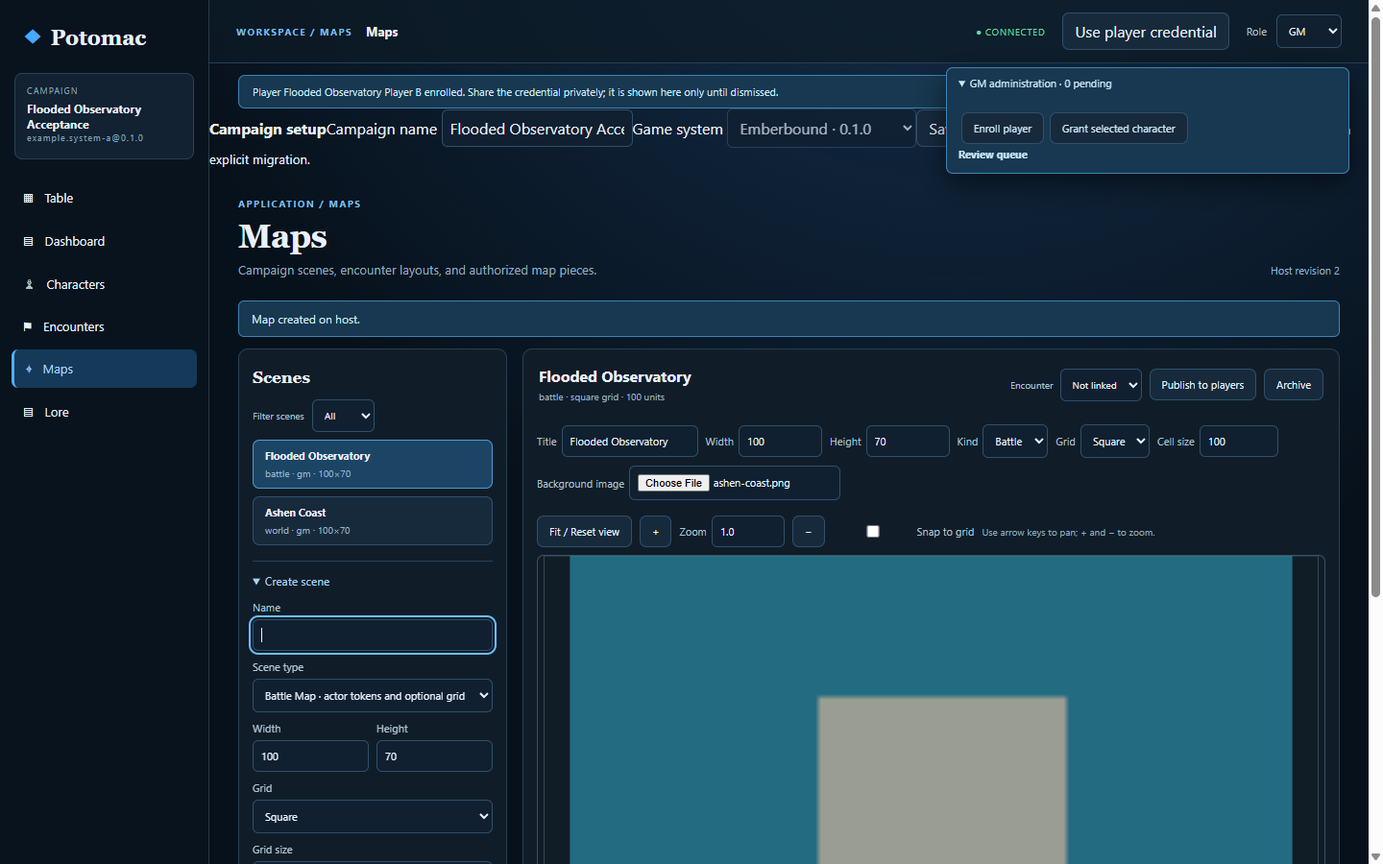
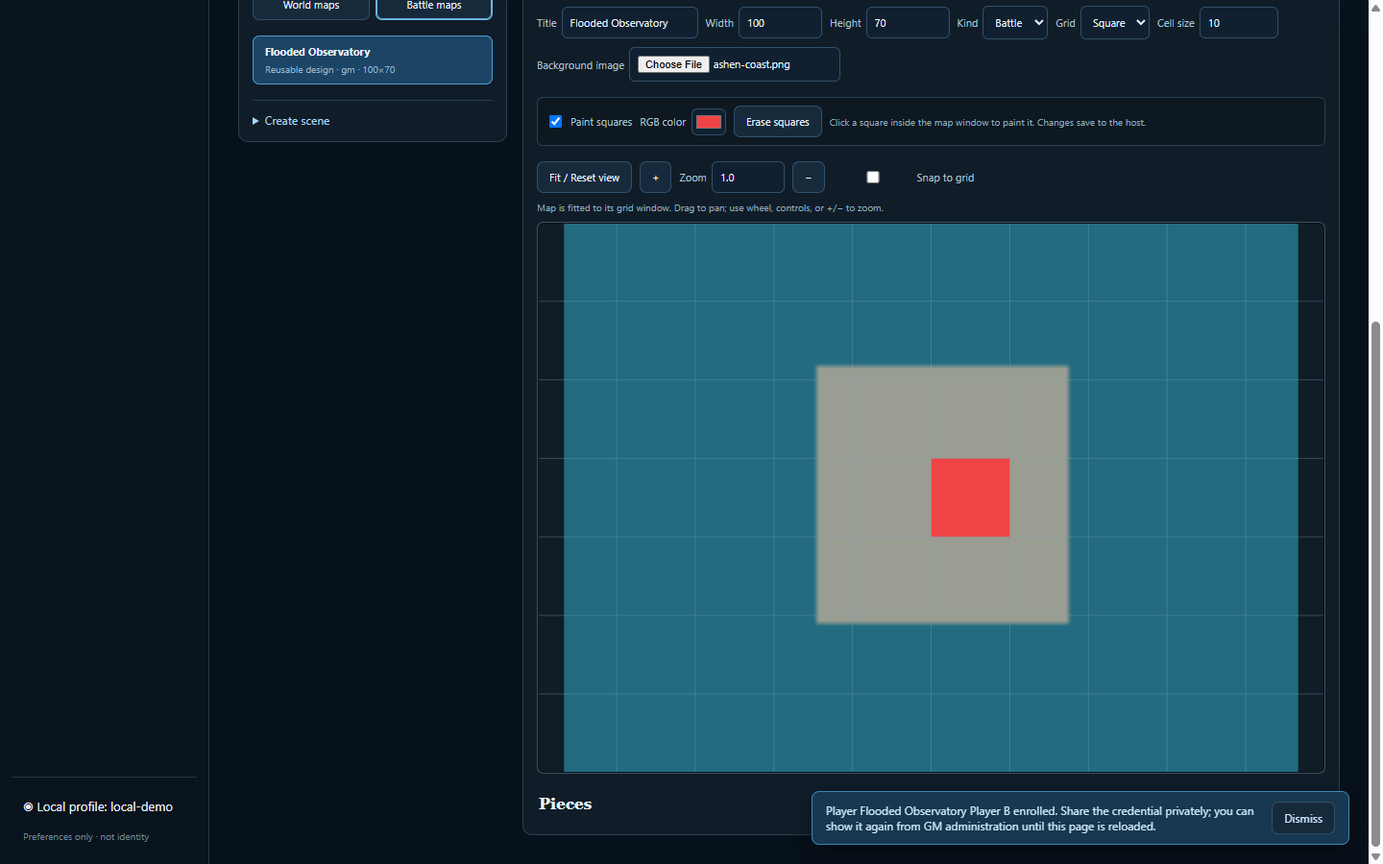
feat(maps): fit scenes and paint battle grid cells

diff --git a/clients/web/src/maps-app.tsx b/clients/web/src/maps-app.tsx
@@ -10,7 +10,7 @@ import './maps-responsive.css'
 type Props = { role: Role; connection: ConnectionStatus; campaignId: string; actors: Actor[]; encounters: Encounter[]; loreArticles?: LoreArticle[]; hostAvailable: boolean; initialSceneId?: string; cachedScenes?: MapSceneView[]; cachedBackgrounds?: Record<string, Blob>; cacheTimes?: Record<string, number>; onHandoff?: (app: 'encounters' | 'characters' | 'lore', id?: string, originSceneId?: string) => void; onSceneChange?: (scenes: MapSceneView[]) => void; onSelectedSceneChange?: (sceneId: string) => void }
 const newId = (prefix: string) => `${prefix}-${crypto.randomUUID()}`
 
-export function MapCanvas({ scene, actors, onSelect, onDropPiece, onKeyboardMovePiece, backgroundUrl, showPrivate = false, snapToGrid = false, onSnapToGridChange }: { scene: MapSceneView; actors: Actor[]; onSelect?: (piece: MapPieceView) => void; onDropPiece?: (piece: MapPieceView, point: { x: number; y: number }) => void; onKeyboardMovePiece?: (piece: MapPieceView, point: { x: number; y: number }) => void; backgroundUrl?: string; showPrivate?: boolean; snapToGrid?: boolean; onSnapToGridChange?: (enabled: boolean) => void }) {
+export function MapCanvas({ scene, actors, onSelect, onDropPiece, onKeyboardMovePiece, backgroundUrl, showPrivate = false, snapToGrid = false, onSnapToGridChange, paintEnabled = false, paintColor, onPaintCell }: { scene: MapSceneView; actors: Actor[]; onSelect?: (piece: MapPieceView) => void; onDropPiece?: (piece: MapPieceView, point: { x: number; y: number }) => void; onKeyboardMovePiece?: (piece: MapPieceView, point: { x: number; y: number }) => void; backgroundUrl?: string; showPrivate?: boolean; snapToGrid?: boolean; onSnapToGridChange?: (enabled: boolean) => void; paintEnabled?: boolean; paintColor?: string; onPaintCell?: (cell: { x: number; y: number }, color: string | null) => void }) {
   const actorNames = useMemo(() => new Map(actors.map(actor => [actor.entityId, actor.name])), [actors])
   const [dragging, setDragging] = useState<string>()
   const [dragPoint, setDragPoint] = useState<{ x: number; y: number }>()
@@ -20,19 +20,21 @@ export function MapCanvas({ scene, actors, onSelect, onDropPiece, onKeyboardMove
   const dragPointRef = useRef<{ x: number; y: number } | undefined>(undefined)
   const piecePointerStart = useRef<{ id: string; startX: number; startY: number } | undefined>(undefined)
   const points = useMemo(() => gridPoints(scene.width, scene.height, scene.grid), [scene.width, scene.height, scene.grid])
-  const position = (event: React.PointerEvent<SVGSVGElement>) => {
+  const scenePosition = (event: React.PointerEvent<SVGSVGElement>) => {
     const bounds = event.currentTarget.getBoundingClientRect()
-    const point = viewportToScene({ x: (event.clientX - bounds.left) / bounds.width * scene.width, y: (event.clientY - bounds.top) / bounds.height * scene.height }, pan, zoom)
-    return positionForMove(point, scene, snapToGrid)
+    return viewportToScene({ x: (event.clientX - bounds.left) / bounds.width * scene.width, y: (event.clientY - bounds.top) / bounds.height * scene.height }, pan, zoom)
   }
-  return <div className="map-canvas-wrap"><div className="map-viewport-controls" aria-label="Map viewport controls"><button type="button" onClick={() => { setZoom(1); setPan({ x: 0, y: 0 }) }}>Fit / Reset view</button><button type="button" aria-label="Zoom in" onClick={() => setZoom(value => Math.min(4, value + .1))}>+</button><label>Zoom<input aria-label="Zoom level" type="number" min="0.5" max="4" step="0.1" value={zoom.toFixed(1)} onChange={event => setZoom(Math.max(.5, Math.min(4, Number(event.target.value))))} /></label><button type="button" aria-label="Zoom out" onClick={() => setZoom(value => Math.max(.5, value - .1))}>−</button>{onDropPiece && scene.grid.type !== 'none' && <label><input type="checkbox" checked={snapToGrid} onChange={event => onSnapToGridChange?.(event.target.checked)} /> Snap to grid</label>}<small>Use arrow keys to pan; + and − to zoom.</small></div><svg className="map-canvas" viewBox={`0 0 ${scene.width} ${scene.height}`} role="img" aria-label={`${scene.name} map`} tabIndex={0} onKeyDown={event => { const amount = scene.grid.type === 'square' ? scene.grid.size : 5; if (event.key === '+' || event.key === '=') setZoom(value => Math.min(4, value * 1.2)); else if (event.key === '-') setZoom(value => Math.max(.5, value / 1.2)); else if (event.key === 'ArrowLeft') setPan(value => ({ ...value, x: value.x + amount })); else if (event.key === 'ArrowRight') setPan(value => ({ ...value, x: value.x - amount })); else if (event.key === 'ArrowUp') setPan(value => ({ ...value, y: value.y + amount })); else if (event.key === 'ArrowDown') setPan(value => ({ ...value, y: value.y - amount })) }} onWheel={event => { event.preventDefault(); setZoom(value => Math.max(.5, Math.min(4, value * (event.deltaY < 0 ? 1.1 : .9)))) }} onPointerDown={event => { if (event.target === event.currentTarget || (event.target as Element).classList.contains('map-background')) { event.currentTarget.setPointerCapture(event.pointerId); setPanStart({ x: event.clientX, y: event.clientY, originX: pan.x, originY: pan.y }) } }} onPointerMove={event => {
+  const position = (event: React.PointerEvent<SVGSVGElement>) => positionForMove(scenePosition(event), scene, snapToGrid)
+  return <div className="map-canvas-wrap"><div className="map-viewport-controls" aria-label="Map viewport controls"><button type="button" onClick={() => { setZoom(1); setPan({ x: 0, y: 0 }) }}>Fit / Reset view</button><button type="button" aria-label="Zoom in" onClick={() => setZoom(value => Math.min(4, value + .1))}>+</button><label>Zoom<input aria-label="Zoom level" type="number" min="0.5" max="4" step="0.1" value={zoom.toFixed(1)} onChange={event => setZoom(Math.max(.5, Math.min(4, Number(event.target.value))))} /></label><button type="button" aria-label="Zoom out" onClick={() => setZoom(value => Math.max(.5, value - .1))}>−</button>{onDropPiece && scene.grid.type !== 'none' && <label><input type="checkbox" checked={snapToGrid} onChange={event => onSnapToGridChange?.(event.target.checked)} /> Snap to grid</label>}<small>Map is fitted to its grid window. Drag to pan; use wheel, controls, or +/− to zoom.</small></div><div className="map-grid-window" style={{ width: `min(100%, ${(scene.width / scene.height) * 65}vh)`, aspectRatio: `${scene.width} / ${scene.height}` }}><svg className="map-canvas" viewBox={`0 0 ${scene.width} ${scene.height}`} preserveAspectRatio="none" role="img" aria-label={`${scene.name} map`} tabIndex={0} onKeyDown={event => { const amount = scene.grid.type === 'square' ? scene.grid.size : 5; if (event.key === '+' || event.key === '=') setZoom(value => Math.min(4, value * 1.2)); else if (event.key === '-') setZoom(value => Math.max(.5, value / 1.2)); else if (event.key === 'ArrowLeft') setPan(value => ({ ...value, x: value.x + amount })); else if (event.key === 'ArrowRight') setPan(value => ({ ...value, x: value.x - amount })); else if (event.key === 'ArrowUp') setPan(value => ({ ...value, y: value.y + amount })); else if (event.key === 'ArrowDown') setPan(value => ({ ...value, y: value.y - amount })) }} onWheel={event => { event.preventDefault(); setZoom(value => Math.max(.5, Math.min(4, value * (event.deltaY < 0 ? 1.1 : .9)))) }} onPointerDown={event => { if (!(event.target as Element).closest('.map-piece')) { event.currentTarget.setPointerCapture(event.pointerId); setPanStart({ x: event.clientX, y: event.clientY, originX: pan.x, originY: pan.y }) } }} onPointerMove={event => {
     if (!dragging || !onDropPiece) return
     const start = piecePointerStart.current
     if (start && Math.hypot(event.clientX - start.startX, event.clientY - start.startY) < 4) return
     const next = position(event)
     dragPointRef.current = next
     setDragPoint(next)
-  }} onPointerMoveCapture={event => { if (panStart) { const bounds = event.currentTarget.getBoundingClientRect(); setPan({ x: panStart.originX + (event.clientX - panStart.x) / bounds.width * scene.width / zoom, y: panStart.originY + (event.clientY - panStart.y) / bounds.height * scene.height / zoom }) } }} onPointerUp={event => { setPanStart(undefined)
+  }} onPointerMoveCapture={event => { if (panStart && Math.hypot(event.clientX - panStart.x, event.clientY - panStart.y) >= 4) { const bounds = event.currentTarget.getBoundingClientRect(); setPan({ x: panStart.originX + (event.clientX - panStart.x) / bounds.width * scene.width / zoom, y: panStart.originY + (event.clientY - panStart.y) / bounds.height * scene.height / zoom }) } }} onPointerUp={event => { const pointerDistance = panStart ? Math.hypot(event.clientX - panStart.x, event.clientY - panStart.y) : Infinity
+    if (pointerDistance < 4 && paintEnabled && onPaintCell && scene.grid.type === 'square') { const point = scenePosition(event); if (point.x >= 0 && point.y >= 0 && point.x < scene.width && point.y < scene.height) onPaintCell({ x: Math.floor(point.x / scene.grid.size), y: Math.floor(point.y / scene.grid.size) }, paintColor ?? null) }
+    setPanStart(undefined)
     const piece = scene.pieces.find(item => item.id === dragging)
     const finalPoint = piece ? position(event) : dragPointRef.current
     const start = piecePointerStart.current
@@ -43,13 +45,14 @@ export function MapCanvas({ scene, actors, onSelect, onDropPiece, onKeyboardMove
   }} onPointerCancel={() => { piecePointerStart.current = undefined; dragPointRef.current = undefined; setDragging(undefined); setDragPoint(undefined); setPanStart(undefined) }}>
     <g transform={`translate(${pan.x} ${pan.y}) scale(${zoom})`}><rect width={scene.width} height={scene.height} fill="#101d27" />
     {backgroundUrl && <image className="map-background" href={backgroundUrl} x="0" y="0" width={scene.width} height={scene.height} preserveAspectRatio="xMidYMid meet" />}
+    {scene.grid.type === 'square' && scene.grid.fills?.map(fill => <rect key={`${fill.x},${fill.y}`} className="map-cell-fill" x={fill.x * scene.grid.size} y={fill.y * scene.grid.size} width={scene.grid.size} height={scene.grid.size} fill={fill.color} />)}
     {scene.grid.type === 'square' && <g className="map-square-grid">{Array.from({ length: Math.ceil(scene.width / scene.grid.size) + 1 }, (_, index) => <line key={`x${index}`} x1={index * scene.grid.size} y1={0} x2={index * scene.grid.size} y2={scene.height} />)}{Array.from({ length: Math.ceil(scene.height / scene.grid.size) + 1 }, (_, index) => <line key={`y${index}`} x1={0} y1={index * scene.grid.size} x2={scene.width} y2={index * scene.grid.size} />)}</g>}
     {scene.grid.type === 'hex' && <g className="map-hex-grid">{points.map((point, index) => <polygon key={index} points={Array.from({ length: 6 }, (_, side) => `${point.x + scene.grid.size / Math.sqrt(3) * Math.cos(Math.PI / 3 * side)},${point.y + scene.grid.size / Math.sqrt(3) * Math.sin(Math.PI / 3 * side)}`).join(' ')} />)}</g>}
     {scene.pieces.filter(piece => piece.visible || showPrivate).map(piece => <g key={piece.id} className={`map-piece map-piece-${piece.kind}`} transform={`translate(${dragging === piece.id && dragPoint ? dragPoint.x : piece.x} ${dragging === piece.id && dragPoint ? dragPoint.y : piece.y})`} tabIndex={0} role="button" aria-label={`${pieceDisplayLabel(piece, actorNames)}, ${piece.kind}, coordinates ${piece.x}, ${piece.y}${onDropPiece ? ', draggable; numeric coordinate controls are available' : ', read only'}`} aria-keyshortcuts="Enter Space ArrowLeft ArrowRight ArrowUp ArrowDown" onClick={() => onSelect?.(piece)} onKeyDown={event => { if (event.key === 'Enter' || event.key === ' ') { event.preventDefault(); event.stopPropagation(); onSelect?.(piece) } else if (onKeyboardMovePiece && ['ArrowLeft', 'ArrowRight', 'ArrowUp', 'ArrowDown'].includes(event.key)) { event.preventDefault(); event.stopPropagation(); const amount = event.shiftKey ? 1 : scene.grid.type === 'square' ? scene.grid.size : 1; const point = positionForMove({ x: piece.x + (event.key === 'ArrowLeft' ? -amount : event.key === 'ArrowRight' ? amount : 0), y: piece.y + (event.key === 'ArrowUp' ? -amount : event.key === 'ArrowDown' ? amount : 0) }, scene, snapToGrid); onKeyboardMovePiece(piece, point) } }} onPointerDown={event => { onSelect?.(piece); if (!onDropPiece) return; event.stopPropagation(); event.currentTarget.setPointerCapture(event.pointerId); piecePointerStart.current = { id: piece.id, startX: event.clientX, startY: event.clientY }; setDragging(piece.id); dragPointRef.current = { x: piece.x, y: piece.y }; setDragPoint({ x: piece.x, y: piece.y }) }}>
       <circle r={Math.max(1.5, scene.grid.size * .38)} />
       <text y={Math.max(1, scene.grid.size * .58)} textAnchor="middle">{pieceDisplayLabel(piece, actorNames)}</text>
     </g>)}</g>
-  </svg></div>
+  </svg></div></div>
 }
 
 export function MapsApp({ role, connection, campaignId, actors, encounters, loreArticles = [], hostAvailable, initialSceneId, cachedScenes = [], cachedBackgrounds = {}, cacheTimes = {}, onHandoff, onSceneChange, onSelectedSceneChange }: Props) {
@@ -71,11 +74,14 @@ export function MapsApp({ role, connection, campaignId, actors, encounters, lore
   const [gridSize, setGridSize] = useState(5)
   const [backgroundFile, setBackgroundFile] = useState<File>()
   const [snapToGrid, setSnapToGrid] = useState(false)
+  const [paintMode, setPaintMode] = useState<'off' | 'paint' | 'erase'>('off')
+  const [paintColor, setPaintColor] = useState('#3b82f6')
   const [mapFilter, setMapFilter] = useState<'world' | 'battle'>('world')
   const [backgroundUrl, setBackgroundUrl] = useState('')
   const [navigation, setNavigation] = useState<string[]>([])
 
   useEffect(() => { if (initialSceneId) { setSelectedId(initialSceneId); onSelectedSceneChange?.(initialSceneId); const target = scenes.find(scene => scene.id === initialSceneId); if (target) { setMapFilter(target.kind); setKind(target.kind) } } }, [initialSceneId, onSelectedSceneChange])
+  useEffect(() => { setPaintMode('off') }, [selectedId])
   useEffect(() => {
     setScenes(cachedScenes)
     if (selectedId && !cachedScenes.some(scene => scene.id === selectedId)) { const firstId = cachedScenes[0]?.id || ''; setSelectedId(firstId); onSelectedSceneChange?.(firstId) }
@@ -114,6 +120,31 @@ export function MapsApp({ role, connection, campaignId, actors, encounters, lore
     try { await commandMap(role, scene.id, command); await refresh(scene.id); setNotice('Saved on host.') }
     catch (cause) { setError(cause instanceof Error ? cause.message : 'Map change failed') }
     finally { setBusy(false) }
+  }
+  async function paintCell(cell: { x: number; y: number }, color: string | null) {
+    if (!selected || busy || role !== 'gm' || connection !== 'connected' || selected.kind !== 'battle' || selected.grid.type !== 'square') return
+    const fills = [...(selected.grid.fills || [])]
+    const existing = fills.findIndex(fill => fill.x === cell.x && fill.y === cell.y)
+    if (color === null) {
+      if (existing < 0) return
+      fills.splice(existing, 1)
+    } else {
+      if (existing >= 0 && fills[existing].color.toLowerCase() === color.toLowerCase()) return
+      if (existing >= 0) fills.splice(existing, 1)
+      fills.push({ ...cell, color: color.toUpperCase() })
+    }
+    await send(selected, { operationId: newId('op'), baseRevision: selected.revision, command: 'update', grid: { ...selected.grid, fills } })
+  }
+  function changeGridType(type: 'none' | 'square') {
+    if (!selected) return
+    if (selected.grid.fills?.length && type !== 'square' && !window.confirm('Turning off the square grid will clear its painted cell colors. Continue?')) return
+    void send(selected, { operationId: newId('op'), baseRevision: selected.revision, command: 'update', grid: { type, size: type === 'none' ? 0 : selected.grid.size || 100 } })
+  }
+  function changeSceneKind(kind: 'world' | 'battle') {
+    if (!selected) return
+    const hasFills = Boolean(selected.grid.fills?.length)
+    if (hasFills && kind === 'world' && !window.confirm('Changing this scene to a World Map clears its battle-map square colors. Continue?')) return
+    void send(selected, { operationId: newId('op'), baseRevision: selected.revision, command: 'update', kind, ...(hasFills && kind === 'world' ? { grid: { ...selected.grid, fills: [] } } : {}) })
   }
   async function addScene(event: React.FormEvent) {
     event.preventDefault(); setBusy(true); setError('')
@@ -186,10 +217,11 @@ export function MapsApp({ role, connection, campaignId, actors, encounters, lore
     <div className="maps-layout"><aside className="map-browser"><h2>{mapFilter === 'world' ? 'World maps' : 'Battle map designs'}</h2><div className="map-kind-tabs" role="group" aria-label="Map collection"><button type="button" aria-pressed={mapFilter === 'world'} onClick={() => selectMapKind('world')}>World maps</button><button type="button" aria-pressed={mapFilter === 'battle'} onClick={() => selectMapKind('battle')}>Battle maps</button></div>{scenes.filter(scene => scene.kind === mapFilter).length ? scenes.filter(scene => scene.kind === mapFilter).map(scene => <button key={scene.id} className={selectedId === scene.id ? 'active' : ''} onClick={() => { setSelectedId(scene.id); onSelectedSceneChange?.(scene.id); setSelectedPiece(undefined) }}><strong>{scene.name}</strong><small>{scene.kind === 'world' ? 'World map' : scene.encounterId ? 'Encounter copy' : 'Reusable design'} · {scene.visibility} · {scene.width}×{scene.height}</small></button>) : <p>{connection === 'connected' ? `No ${mapFilter === 'world' ? 'world maps' : 'battle map designs'} yet.` : 'No cached maps.'}</p>}
       {role === 'gm' && <details><summary>Create scene</summary><form className="map-create-form" onSubmit={event => void addScene(event)}><label>Name<input required maxLength={160} value={name} onChange={event => setName(event.target.value)} /></label><label>Map type<select value={kind} onChange={event => { const next = event.target.value as typeof kind; setKind(next); setGridType(next === 'world' ? 'none' : 'square'); if (next === 'battle') setGridSize(100) }}><option value="world">World map · locations and Lore</option><option value="battle">Battle map design · grid and tokens</option></select></label><div className="map-field-row"><label>Width<input type="number" min="1" max="100000" value={width} onChange={event => setWidth(Number(event.target.value))} /></label><label>Height<input type="number" min="1" max="100000" value={height} onChange={event => setHeight(Number(event.target.value))} /></label></div><label>Grid<select value={gridType} onChange={event => setGridType(event.target.value as typeof gridType)}><option value="none">None</option><option value="square">Square</option></select></label>{gridType !== 'none' && <label>Grid size<input type="number" min="1" max="10000" value={gridSize} onChange={event => setGridSize(Number(event.target.value))} /></label>}<label>Background image (optional)<input type="file" accept="image/png,image/jpeg,image/gif,image/webp" onChange={event => setBackgroundFile(event.currentTarget.files?.[0])} /></label><button className="primary" disabled={busy || connection !== 'connected'}>Create on host</button></form></details>}</aside>
       <section className="map-workspace">{selected ? <><header className="map-toolbar"><div><strong>{selected.name}</strong><small>{selected.kind === 'world' ? 'World map · locations and Lore' : selected.encounterId ? 'Independent encounter map copy' : 'Reusable battle map design'} · {selected.grid.type === 'none' ? 'No grid' : `${selected.grid.type} grid · ${selected.grid.size} units`}</small></div><div>{navigation.length > 0 && <button onClick={() => { const previousId = navigation.at(-1)!; setSelectedId(previousId); onSelectedSceneChange?.(previousId); setNavigation(items => items.slice(0, -1)) }}>Back to previous map</button>}{selected.kind === 'world' && <label>Related encounter<select aria-label="Related encounter" value={selected.encounterId || ''} disabled={role !== 'gm' || connection !== 'connected' || busy} onChange={event => void send(selected, { operationId: newId('op'), baseRevision: selected.revision, command: 'encounter.set', encounterId: event.target.value || null })}><option value="">None</option>{encounters.map(item => <option key={item.id} value={item.id}>{item.name}</option>)}</select></label>}{selected.encounterId && <span>Imported into {encounters.find(item => item.id === selected.encounterId)?.name || 'an encounter'}</span>}{role === 'gm' && <><button disabled={busy || connection !== 'connected'} onClick={() => void send(selected, { operationId: newId('op'), baseRevision: selected.revision, command: selected.visibility === 'shared' ? 'revoke' : 'publish' })}>{selected.visibility === 'shared' ? 'Revoke from players' : 'Publish to players'}</button><button disabled={busy || connection !== 'connected'} onClick={() => void send(selected, { operationId: newId('op'), baseRevision: selected.revision, command: 'archive' })}>Archive</button></>}</div></header>
-        <div className="map-controls" aria-label="Map scene controls">{role === 'gm' && connection === 'connected' && <><label>Title<input aria-label="Map title" key={`title-${selected.id}-${selected.revision}`} defaultValue={selected.name} maxLength={160} onBlur={event => { const value = event.target.value.trim(); if (value && value !== selected.name) void send(selected, { operationId: newId('op'), baseRevision: selected.revision, command: 'update', name: value }) }} /></label><label>Width<input aria-label="Map width" type="number" min="1" max="100000" key={`width-${selected.id}-${selected.revision}`} defaultValue={selected.width} onBlur={event => { const value = Number(event.target.value); if (Number.isInteger(value) && value > 0 && value <= 100000 && value !== selected.width) void send(selected, { operationId: newId('op'), baseRevision: selected.revision, command: 'update', width: value }) }} /></label><label>Height<input aria-label="Map height" type="number" min="1" max="100000" key={`height-${selected.id}-${selected.revision}`} defaultValue={selected.height} onBlur={event => { const value = Number(event.target.value); if (Number.isInteger(value) && value > 0 && value <= 100000 && value !== selected.height) void send(selected, { operationId: newId('op'), baseRevision: selected.revision, command: 'update', height: value }) }} /></label><label>Kind<select aria-label="Scene kind" value={selected.kind} disabled={busy} onChange={event => void send(selected, { operationId: newId('op'), baseRevision: selected.revision, command: 'update', kind: event.target.value as 'world' | 'battle' })}><option value="world">World</option><option value="battle">Battle</option></select></label><label>Grid<select aria-label="Grid" value={selected.grid.type} disabled={busy} onChange={event => void send(selected, { operationId: newId('op'), baseRevision: selected.revision, command: 'update', grid: { type: event.target.value as 'none' | 'square', size: event.target.value === 'none' ? 0 : selected.grid.size || 100 } })}><option value="none">Off</option><option value="square">Square</option></select></label>{selected.grid.type !== 'none' && <label>Cell size<input aria-label="Grid cell size" type="number" min="1" max="10000" key={`grid-${selected.id}-${selected.revision}`} defaultValue={selected.grid.size} onBlur={event => { const value = Number(event.target.value); if (Number.isFinite(value) && value >= 1 && value <= 10000 && value !== selected.grid.size) void send(selected, { operationId: newId('op'), baseRevision: selected.revision, command: 'update', grid: { ...selected.grid, size: value } }) }} /></label>}<label>Background image<input type="file" accept="image/png,image/jpeg,image/gif,image/webp" disabled={busy} onChange={event => void addBackground(event.currentTarget.files?.[0])} /></label></>}</div>
+        <div className="map-controls" aria-label="Map scene controls">{role === 'gm' && connection === 'connected' && <><label>Title<input aria-label="Map title" key={`title-${selected.id}-${selected.revision}`} defaultValue={selected.name} maxLength={160} onBlur={event => { const value = event.target.value.trim(); if (value && value !== selected.name) void send(selected, { operationId: newId('op'), baseRevision: selected.revision, command: 'update', name: value }) }} /></label><label>Width<input aria-label="Map width" type="number" min="1" max="100000" key={`width-${selected.id}-${selected.revision}`} defaultValue={selected.width} onBlur={event => { const value = Number(event.target.value); if (Number.isInteger(value) && value > 0 && value <= 100000 && value !== selected.width) void send(selected, { operationId: newId('op'), baseRevision: selected.revision, command: 'update', width: value }) }} /></label><label>Height<input aria-label="Map height" type="number" min="1" max="100000" key={`height-${selected.id}-${selected.revision}`} defaultValue={selected.height} onBlur={event => { const value = Number(event.target.value); if (Number.isInteger(value) && value > 0 && value <= 100000 && value !== selected.height) void send(selected, { operationId: newId('op'), baseRevision: selected.revision, command: 'update', height: value }) }} /></label><label>Kind<select aria-label="Scene kind" value={selected.kind} disabled={busy} onChange={event => changeSceneKind(event.target.value as 'world' | 'battle')}><option value="world">World</option><option value="battle">Battle</option></select></label><label>Grid<select aria-label="Grid" value={selected.grid.type} disabled={busy} onChange={event => changeGridType(event.target.value as 'none' | 'square')}><option value="none">Off</option><option value="square">Square</option></select></label>{selected.grid.type !== 'none' && <label>Cell size<input aria-label="Grid cell size" type="number" min="1" max="10000" key={`grid-${selected.id}-${selected.revision}`} defaultValue={selected.grid.size} onBlur={event => { const value = Number(event.target.value); if (Number.isFinite(value) && value >= 1 && value <= 10000 && value !== selected.grid.size) void send(selected, { operationId: newId('op'), baseRevision: selected.revision, command: 'update', grid: { ...selected.grid, size: value } }) }} /></label>}<label>Background image<input type="file" accept="image/png,image/jpeg,image/gif,image/webp" disabled={busy} onChange={event => void addBackground(event.currentTarget.files?.[0])} /></label></>}</div>
+        {selected.kind === 'battle' && selected.grid.type === 'square' && role === 'gm' && connection === 'connected' && <div className="map-paint-controls" aria-label="Battle map square coloring"><label><input type="checkbox" checked={paintMode !== 'off'} onChange={event => setPaintMode(event.target.checked ? 'paint' : 'off')} /> Paint squares</label>{paintMode !== 'off' && <><label>RGB color<input aria-label="Square RGB color" type="color" value={paintColor} onChange={event => setPaintColor(event.target.value)} /></label><button type="button" aria-pressed={paintMode === 'erase'} onClick={() => setPaintMode(paintMode === 'erase' ? 'paint' : 'erase')}>{paintMode === 'erase' ? 'Eraser selected' : 'Erase squares'}</button><small>Click a square inside the map window to paint it. Changes save to the host.</small></>}</div>}
         {selected.encounterId && <button type="button" onClick={() => onHandoff?.('encounters', selected.encounterId!)}>Open associated encounter</button>}
         {selected.background && !backgroundUrl && <p role="status">{connection === 'connected' ? 'Loading authorized background…' : 'Background unavailable offline unless previously cached.'}</p>}
-        <MapCanvas key={selected.id} scene={selected} actors={actors} backgroundUrl={backgroundUrl} showPrivate={role === 'gm'} snapToGrid={snapToGrid} onSnapToGridChange={setSnapToGrid} onSelect={setSelectedPiece} onDropPiece={role === 'gm' && connection === 'connected' ? (piece, point) => void savePiece(piece, point) : undefined} onKeyboardMovePiece={role === 'gm' && connection === 'connected' ? (piece, point) => queueKeyboardMove(piece, point) : undefined} />
+        <MapCanvas key={selected.id} scene={selected} actors={actors} backgroundUrl={backgroundUrl} showPrivate={role === 'gm'} snapToGrid={snapToGrid} onSnapToGridChange={setSnapToGrid} paintEnabled={paintMode !== 'off'} paintColor={paintMode === 'erase' ? undefined : paintColor} onPaintCell={(cell, color) => void paintCell(cell, color)} onSelect={setSelectedPiece} onDropPiece={role === 'gm' && connection === 'connected' ? (piece, point) => void savePiece(piece, point) : undefined} onKeyboardMovePiece={role === 'gm' && connection === 'connected' ? (piece, point) => queueKeyboardMove(piece, point) : undefined} />
         <div className="map-piece-list"><div><h2>Pieces</h2>{role === 'gm' && connection === 'connected' && <details><summary>{selected.kind === 'world' ? 'Add location pin or actor token' : 'Add actor token or location pin'}</summary><form className="map-add-piece" onSubmit={event => { event.preventDefault(); if (!selected) return; const form = new FormData(event.currentTarget); const actorId = String(form.get('actorId') || ''); const label = String(form.get('label') || '').trim(); const piece: MapPiece = { id: newId('piece'), sceneId: selected.id, kind: actorId ? 'actor' : 'pin', x: selected.width / 2, y: selected.height / 2, visible: false, revision: 1, ...(actorId ? { actorId } : { label: label || 'Pin' }) }; void send(selected, { operationId: newId('op'), baseRevision: selected.revision, command: 'piece.put', piece: { ...piece } }); event.currentTarget.reset() }}><label>Actor<select name="actorId" defaultValue=""><option value="">Place a pin instead</option>{actors.map(actor => <option key={actor.entityId} value={actor.entityId}>{actor.name}</option>)}</select></label><label>Pin label<input name="label" maxLength={200} /></label><button>Add at center · GM only</button></form></details>}</div>
           {selected.pieces.map(piece => <div className={`map-piece-row ${selectedPiece?.id === piece.id ? 'active' : ''}`} key={piece.id}><button onClick={() => setSelectedPiece(piece)}><strong>{pieceDisplayLabel(piece, new Map(actors.map(actor => [actor.entityId, actor.name])))}</strong><small>{piece.kind} · {piece.x.toFixed(1)}, {piece.y.toFixed(1)}{piece.visible ? ' · shared' : ' · GM only'}</small></button>{piece.kind === 'actor' && piece.actorId && <button onClick={() => onHandoff?.('characters', piece.actorId)}>Open character</button>}{piece.destination && <button onClick={() => followDestination(piece.destination!)}>{piece.destination.kind === 'map_scene' ? `Go to ${piece.destination.name}` : `Open ${piece.destination.title}`}</button>}{role === 'gm' && connection === 'connected' && <><label>Label<input aria-label={`Label for ${pieceDisplayLabel(piece, new Map(actors.map(actor => [actor.entityId, actor.name])))}`} maxLength={200} defaultValue={piece.label || ''} onBlur={event => { if (piece.kind === 'pin' && event.target.value !== (piece.label || '')) void updatePiece(piece, { label: event.target.value }) }} /></label><label>X<input aria-label={`X coordinate for ${piece.id}`} type="number" min="0" max={selected.width} step="any" defaultValue={piece.x} onBlur={event => { const value = Number(event.target.value); if (Number.isFinite(value) && value >= 0 && value <= selected.width && value !== piece.x) void updatePiece(piece, { x: value }) }} /></label><label>Y<input aria-label={`Y coordinate for ${piece.id}`} type="number" min="0" max={selected.height} step="any" defaultValue={piece.y} onBlur={event => { const value = Number(event.target.value); if (Number.isFinite(value) && value >= 0 && value <= selected.height && value !== piece.y) void updatePiece(piece, { y: value }) }} /></label><label><input type="checkbox" checked={piece.visible} disabled={busy} onChange={event => void updatePiece(piece, { visible: event.target.checked })} /> Shared</label><button disabled={busy} onClick={() => void send(selected, { operationId: newId('op'), baseRevision: selected.revision, command: 'piece.delete', pieceId: piece.id })}>Remove</button></>}</div>)}</div>
         <div className="map-links"><h2>Pin destinations</h2>{selected.pieces.filter(piece => piece.kind === 'pin').map(piece => <div className="map-pin-destination" key={piece.id}><form onSubmit={event => { event.preventDefault(); const data = new FormData(event.currentTarget); void send(selected, { operationId: newId('op'), baseRevision: selected.revision, command: 'link.put', pieceId: piece.id, targetSceneId: String(data.get('targetSceneId')), label: String(data.get('label') || '') }) }}><span>{piece.label || 'Pin'} · Map</span><select aria-label={`Destination for ${piece.label || piece.id}`} name="targetSceneId" defaultValue={piece.destination?.kind === 'map_scene' ? piece.destination.sceneId : ''} disabled={role !== 'gm' || connection !== 'connected'}><option value="" disabled>Select destination</option>{scenes.filter(scene => scene.id !== selected.id).map(scene => <option key={scene.id} value={scene.id}>{scene.name}</option>)}</select><input aria-label="Link label" name="label" placeholder="Handoff label" defaultValue={piece.destination?.label || ''} disabled={role !== 'gm' || connection !== 'connected'} />{role === 'gm' && <><button disabled={busy || connection !== 'connected'}>Save link</button>{piece.destination?.kind === 'map_scene' && <button type="button" disabled={busy || connection !== 'connected'} onClick={() => void send(selected, { operationId: newId('op'), baseRevision: selected.revision, command: 'link.delete', pieceId: piece.id })}>Unlink</button>}</>}</form><form className="map-lore-link" onSubmit={event => { event.preventDefault(); const data = new FormData(event.currentTarget); void send(selected, { operationId: newId('op'), baseRevision: selected.revision, command: 'lore-link.put', pieceId: piece.id, targetLoreEntryId: String(data.get('targetLoreEntryId')), label: String(data.get('label') || '') }) }}><label>Lore destination<select aria-label={`Lore destination for ${piece.label || piece.id}`} name="targetLoreEntryId" defaultValue={piece.destination?.kind === 'lore_entry' ? piece.destination.entryId : ''} disabled={role !== 'gm' || connection !== 'connected'}><option value="">No Lore destination</option>{loreArticles.filter(article => !article.archived).map(article => <option key={article.id} value={article.id}>{article.title}{article.visibility === 'gm' ? ' · GM only' : ''}</option>)}</select></label><label>Lore link label<input aria-label={`Lore link label for ${piece.label || piece.id}`} name="label" placeholder="Optional label" defaultValue={piece.destination?.kind === 'lore_entry' ? piece.destination.label : ''} disabled={role !== 'gm' || connection !== 'connected'} /></label>{role === 'gm' && <><button disabled={busy || connection !== 'connected'}>Save Lore link</button>{piece.destination?.kind === 'lore_entry' && <button type="button" disabled={busy || connection !== 'connected'} onClick={() => void send(selected, { operationId: newId('op'), baseRevision: selected.revision, command: 'lore-link.delete', pieceId: piece.id })}>Remove Lore link</button>}</>}</form></div>)}</div>

diff --git a/clients/web/src/maps-responsive.css b/clients/web/src/maps-responsive.css
@@ -10,3 +10,4 @@
   .map-piece-row{align-items:flex-start}
   .map-viewport-controls small{flex-basis:100%}
 }
+.map-grid-window{position:relative;margin-inline:auto;max-width:100%;max-height:65vh;overflow:hidden;background:#101d27;border:1px solid #385267;border-radius:7px}.map-canvas{display:block;width:100%;height:100%;max-height:none;aspect-ratio:auto;border:0;touch-action:none}.map-cell-fill{pointer-events:none}.map-paint-controls{display:flex;align-items:center;gap:8px;flex-wrap:wrap;margin:8px 0;padding:8px;border:1px solid #294052;border-radius:6px;background:#0d1821}.map-paint-controls label{display:flex;align-items:center;gap:6px;color:#adc1d1;font-size:11px}.map-paint-controls input[type=color]{width:36px;height:28px;padding:2px}.map-paint-controls small{color:#91aabd;font-size:10px}@media(max-width:600px){.map-grid-window{max-height:55vh}}

diff --git a/packages/contracts/src/index.ts b/packages/contracts/src/index.ts
@@ -132,7 +132,7 @@ export type OfflineReceipt = {
 
 /** Host-authoritative scene and piece DTOs shared by the Maps app and bricks. */
 export type MapSceneKind = "world" | "battle";
-export type MapGrid = { type: "square" | "hex" | "none"; size: number; units?: string };
+export type MapGrid = { type: "square" | "hex" | "none"; size: number; units?: string; fills?: Array<{ x: number; y: number; color: string }> };
 export type MapScene = {
   id: string; campaignId: string; name: string; kind: MapSceneKind; revision: number;
   width: number; height: number; grid: MapGrid; visibility: "gm" | "shared";

diff --git a/docs/adr/0028-battle-map-grid-window-and-cell-fills.md b/docs/adr/0028-battle-map-grid-window-and-cell-fills.md
@@ -1,0 +1,24 @@
+# ADR-0028: Fit map scenes to a clipped grid window and persist square-cell colors
+
+- Status: Accepted; implemented in the Maps application and host map contract
+- Date: 2026-10-24
+
+## Context
+
+The Maps canvas used one fixed aspect ratio for every scene, which could distort or letterbox maps with different dimensions. GMs also need to mark terrain on tactical battle maps with color while retaining a reusable, importable design.
+
+## Decision
+
+The canvas window follows the scene's width-to-height ratio and fits within the available width and viewport height. The scene and its grid render together in that window; zoom magnifies both and pan moves both while the outer window clips overflow. Reset returns to the fitted scene view.
+
+Square Battle Maps can store cell fills as an optional `fills` list on the existing grid value. Each entry identifies a zero-based cell and an opaque six-digit RGB hex color. The host validates the scene kind, grid type, coordinates, color syntax, uniqueness and bounded list length, then persists the updated grid through the existing revisioned GM map command. The GM paint and erase tools are available only while connected. Published players may see fills as map content but cannot edit them.
+
+This stays within the existing JSON grid field, so no SQLite migration is needed. Existing maps omit `fills` and keep their current behavior. Existing backup, restore, offline-cache and encounter snapshot flows carry colors with the grid. Importing a reusable design copies its fills as part of the existing independent snapshot.
+
+## Consequences
+
+Colors are cell-level design data and are copied into each encounter map snapshot. Changing the grid type to anything other than square clears painted cells after an explicit confirmation. The first version supports opaque RGB colors; alpha, gradients, hex-cell fills and collaborative painting are outside this change.
+
+## Validation
+
+Host tests verify RGB validation, unique and in-bounds cells, GM-only writes, restart persistence and independent encounter snapshot copying. Browser acceptance paints a cell through the Maps UI, verifies zoom and pan inside the fixed frame, and confirms players see published fills without GM paint controls.
